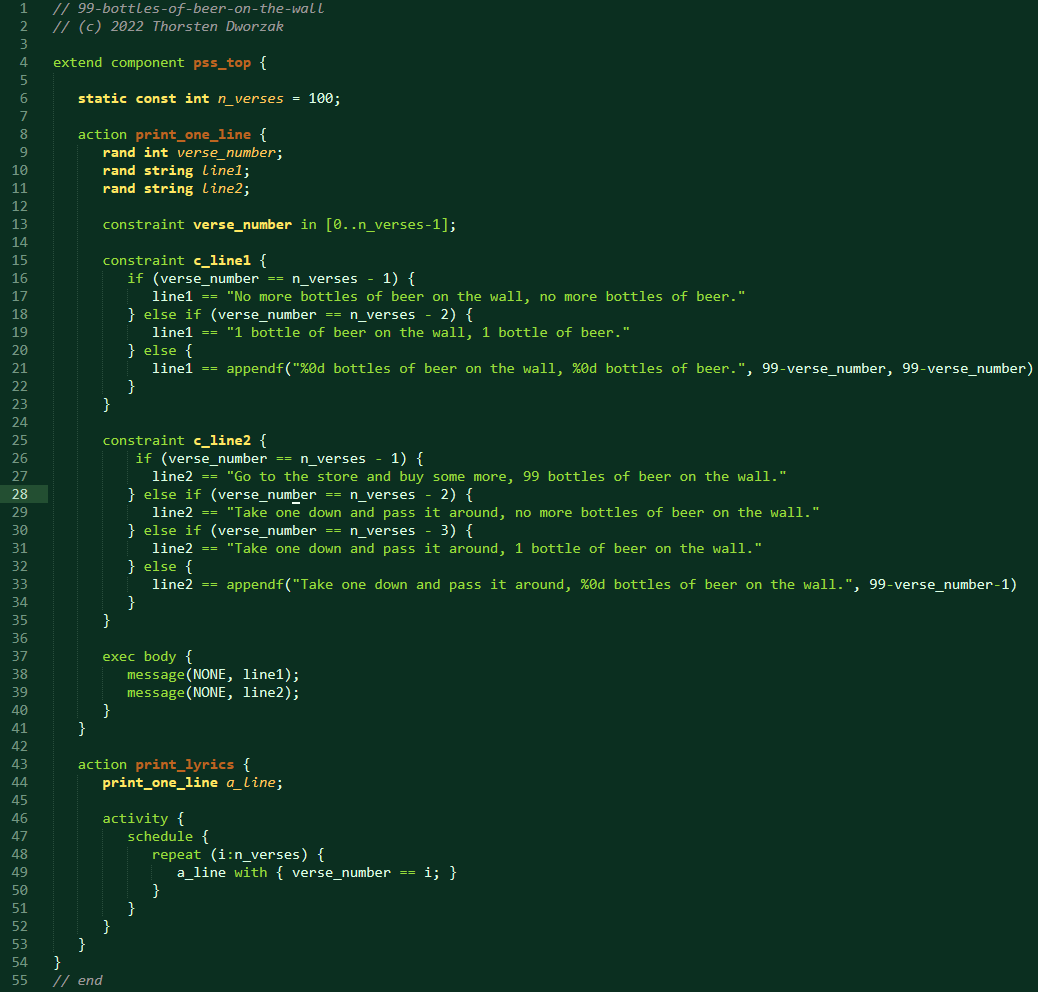
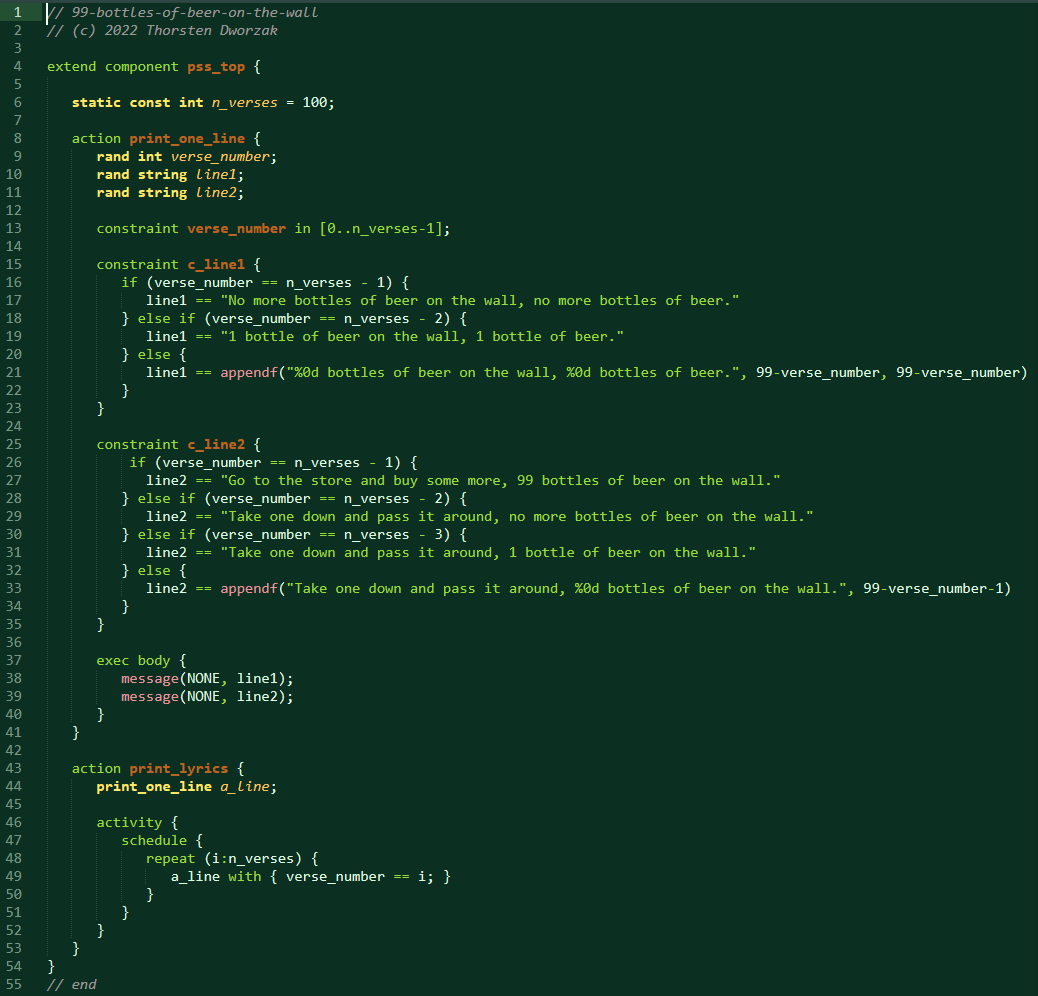
added example file; most language constructs implemented

diff --git a/README.md b/README.md
@@ -1,5 +1,6 @@
 # PSS-DSL-syntax
-PSS DSL (Portable Stimulus Specification domain-specific language) syntax for Sublime Text 3+4.
+PSS-DSL (Portable Stimulus Specification domain-specific language) syntax for Sublime Text 3+4.
+It supports highlighting of embedded C-code in exec blocks.
 
 ## Manual Install
 Place the syntax files somewhere in the Packages directory of Sublime. Check View->Syntax, an entry "PSS" should be there.
@@ -10,3 +11,5 @@ Go to Preferences -> Package Control, "Install Package" and search for "PSS"
 
 ## References
 PSS 2.0 specification, see also https://www.accellera.org/activities/working-groups/portable-stimulus/
+
+![Screenshot](collaterals/Screenshot.png)

diff --git a/CHANGELOG.md b/CHANGELOG.md
@@ -1,12 +1,10 @@
-# PSS-x syntax changelog
+# PSS-DSL syntax changelog
 All notable changes to this project will be documented in this file.
 
 The format is based on [Keep a Changelog](https://keepachangelog.com/en/1.0.0/),
 and this project adheres to [Semantic Versioning](https://semver.org/spec/v2.0.0.html).
 
-## [1.0.0] - 2022-03-15
-### Changed
+## [1.0.0] - to be released
+### Added
 - Initial release
-
-#### Added
 
